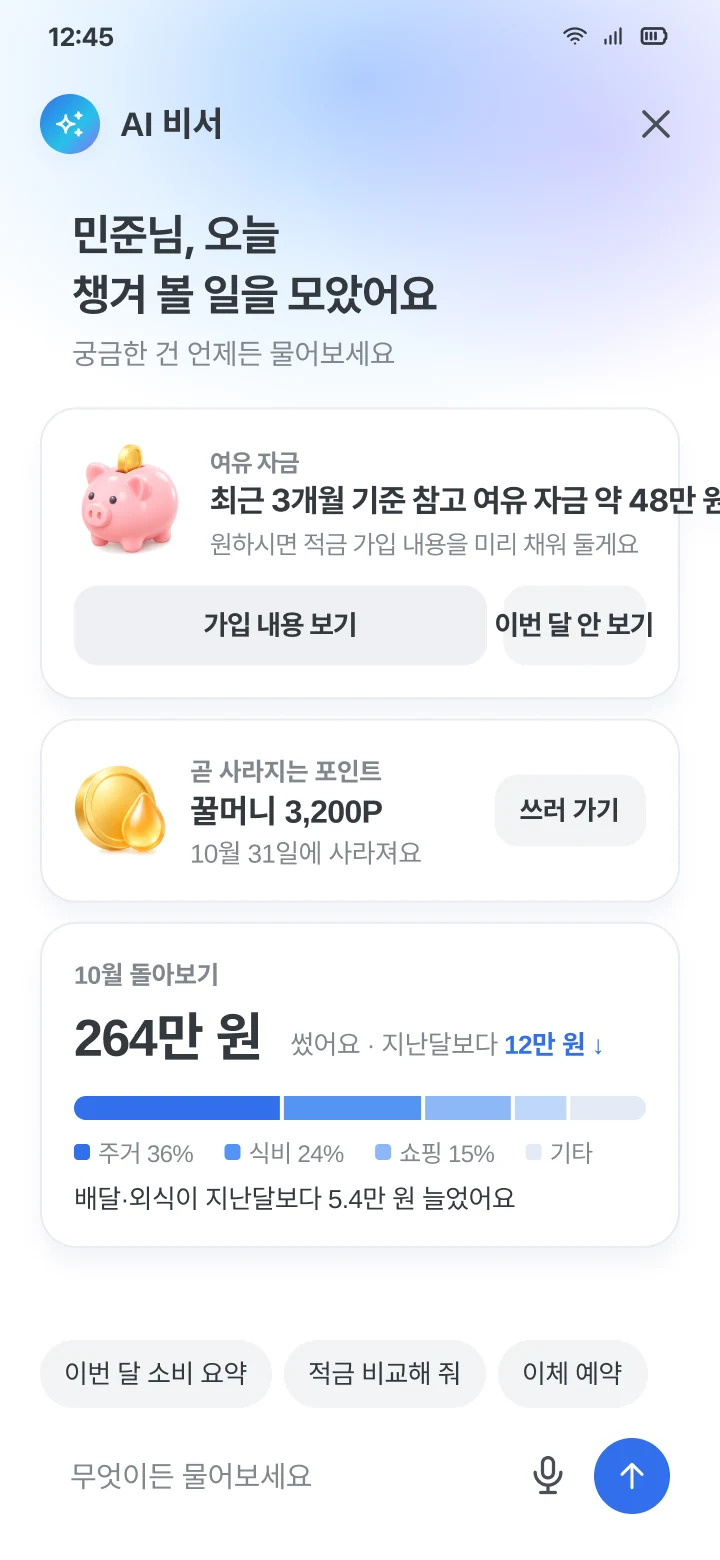
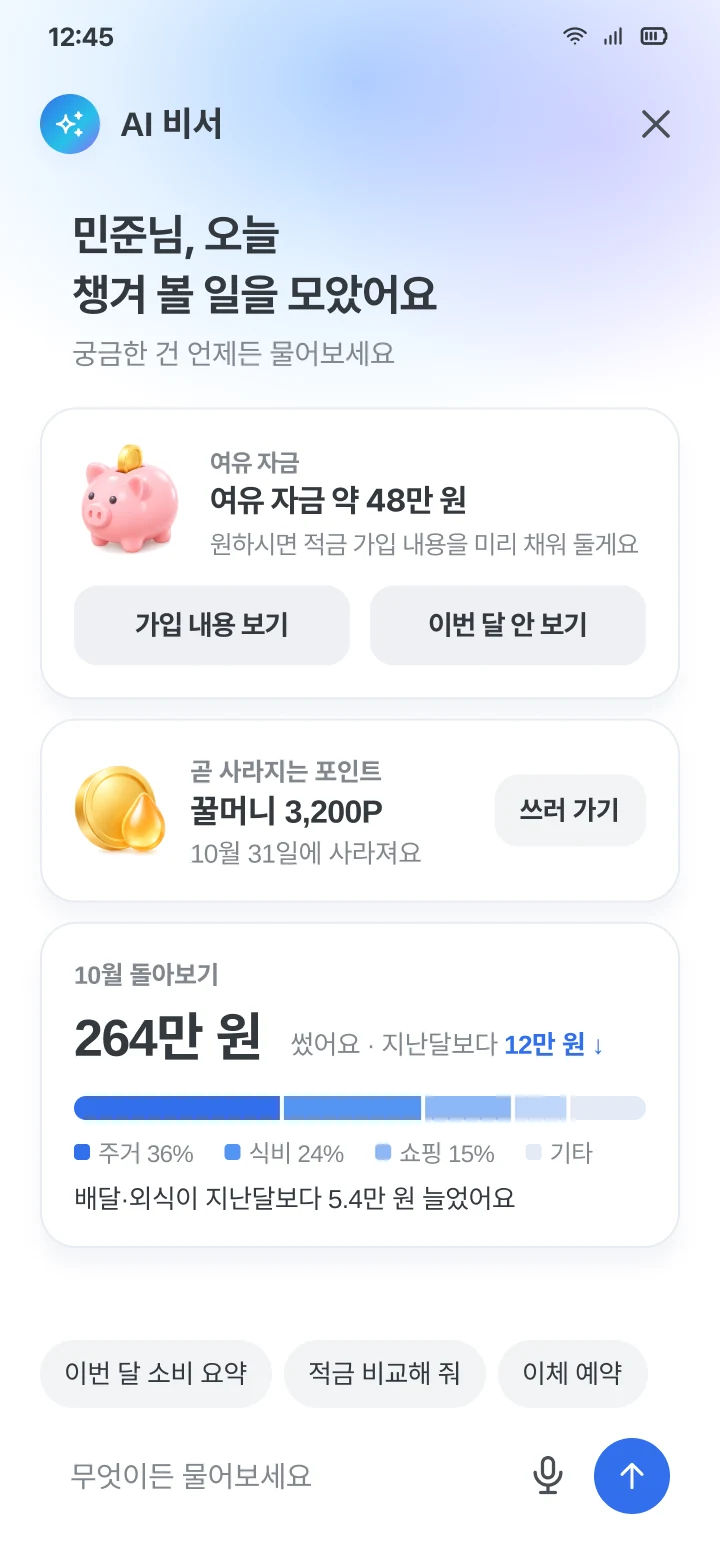
AI 비서 카드: 제목 한 줄, 버튼 두 개 같은 크기·가운데 정렬 (플러그인 3차 내보내기)

Changed region(s): [[0.275, 0.3077, 1.0, 0.3385], [0.6111, 0.3692, 0.8861, 0.4308], [0.2139, 0.3692, 0.4583, 0.4308]]

diff --git a/screens.js b/screens.js
@@ -3,7 +3,7 @@ window.SCREENS = {
   "name": "01 홈 A · 직장인(월급날)",
   "w": 360,
   "h": 1470,
-  "src": "screens/s01.webp",
+  "src": "screens/s01.webp?v=4",
   "spots": [
    {
     "l": 5.56,
@@ -74,7 +74,7 @@ window.SCREENS = {
   "name": "02 홈 B · 60대 쉬운홈",
   "w": 360,
   "h": 1106,
-  "src": "screens/s02.webp",
+  "src": "screens/s02.webp?v=4",
   "spots": [
    {
     "l": 85.0,
@@ -103,7 +103,7 @@ window.SCREENS = {
   "name": "03 홈 C · 이체만 쓰는 고객(거의 그대로)",
   "w": 360,
   "h": 1645,
-  "src": "screens/s03.webp",
+  "src": "screens/s03.webp?v=4",
   "spots": [
    {
     "l": 58.61,
@@ -146,7 +146,7 @@ window.SCREENS = {
   "name": "04 A · 소비 요약과 참고 여유 자금",
   "w": 360,
   "h": 780,
-  "src": "screens/s04.webp",
+  "src": "screens/s04.webp?v=4",
   "spots": [
    {
     "l": 52.22,
@@ -168,7 +168,7 @@ window.SCREENS = {
   "name": "05 A · 왜 추천했나요?",
   "w": 360,
   "h": 780,
-  "src": "screens/s05.webp",
+  "src": "screens/s05.webp?v=4",
   "spots": [
    {
     "l": 54.72,
@@ -197,17 +197,17 @@ window.SCREENS = {
   "name": "06 AI 비서 · 오늘 챙길 일",
   "w": 360,
   "h": 780,
-  "src": "screens/s06.webp",
+  "src": "screens/s06.webp?v=4",
   "spots": [
    {
-    "l": 17.22,
+    "l": 7.78,
     "t": 37.179,
     "w": 43.61,
     "h": 5.769,
     "to": "s07"
    },
    {
-    "l": 63.61,
+    "l": 54.44,
     "t": 37.179,
     "w": 32.22,
     "h": 5.769,
@@ -226,7 +226,7 @@ window.SCREENS = {
   "name": "07 가입 1/3 · 불러온 정보 확인",
   "w": 360,
   "h": 780,
-  "src": "screens/s07.webp",
+  "src": "screens/s07.webp?v=4",
   "spots": [
    {
     "l": 5.56,
@@ -255,7 +255,7 @@ window.SCREENS = {
   "name": "08 가입 · 매달 넣을 돈(직접 입력)",
   "w": 360,
   "h": 780,
-  "src": "screens/s08.webp",
+  "src": "screens/s08.webp?v=4",
   "spots": [
    {
     "l": 5.56,
@@ -277,7 +277,7 @@ window.SCREENS = {
   "name": "09 가입 3/3 · 설명·동의·최종 확인",
   "w": 360,
   "h": 868,
-  "src": "screens/s09.webp",
+  "src": "screens/s09.webp?v=4",
   "spots": [
    {
     "l": 5.56,
@@ -317,7 +317,7 @@ window.SCREENS = {
   "name": "10 가입 · 결과",
   "w": 360,
   "h": 780,
-  "src": "screens/s10.webp",
+  "src": "screens/s10.webp?v=4",
   "spots": [
    {
     "l": 5.56,
@@ -332,7 +332,7 @@ window.SCREENS = {
   "name": "11 오류 · 인증 전에 잔액이 바뀜",
   "w": 360,
   "h": 780,
-  "src": "screens/s11.webp",
+  "src": "screens/s11.webp?v=4",
   "spots": [
    {
     "l": 8.89,
@@ -354,7 +354,7 @@ window.SCREENS = {
   "name": "12 오류 · 자동이체만 실패",
   "w": 360,
   "h": 780,
-  "src": "screens/s12.webp",
+  "src": "screens/s12.webp?v=4",
   "spots": [
    {
     "l": 5.56,
@@ -376,7 +376,7 @@ window.SCREENS = {
   "name": "13 설정 · 내 홈 맞춤",
   "w": 360,
   "h": 780,
-  "src": "screens/s13.webp",
+  "src": "screens/s13.webp?v=4",
   "spots": [
    {
     "l": 1.11,

diff --git a/index.html b/index.html
@@ -8,7 +8,7 @@
 <title>WON'S 시제품 · SSAFY 경진대회</title>
 <meta name="description" content="SSAFY 아이디어 경진대회 본선 시제품입니다. 실제 은행 앱이 아니며 모든 데이터는 가상입니다.">
 <link rel="stylesheet" href="https://cdn.jsdelivr.net/gh/orioncactus/pretendard@v1.3.9/dist/web/static/pretendard.min.css">
-<link rel="stylesheet" href="style.css?v=3">
+<link rel="stylesheet" href="style.css?v=4">
 </head>
 <body>
 <header class="bar" id="bar">
@@ -64,7 +64,7 @@
 </div>
 <div class="toast" id="toast" role="status" aria-live="polite"></div>
 
-<script src="screens.js?v=3"></script>
-<script src="app.js?v=3"></script>
+<script src="screens.js?v=4"></script>
+<script src="app.js?v=4"></script>
 </body>
 </html>
